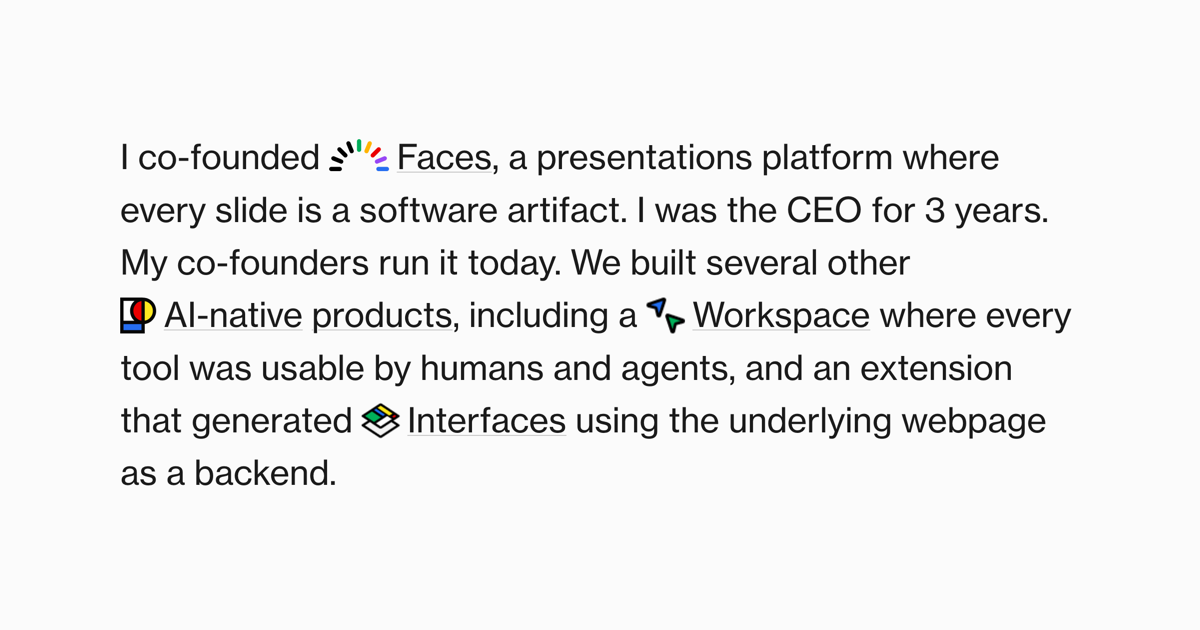
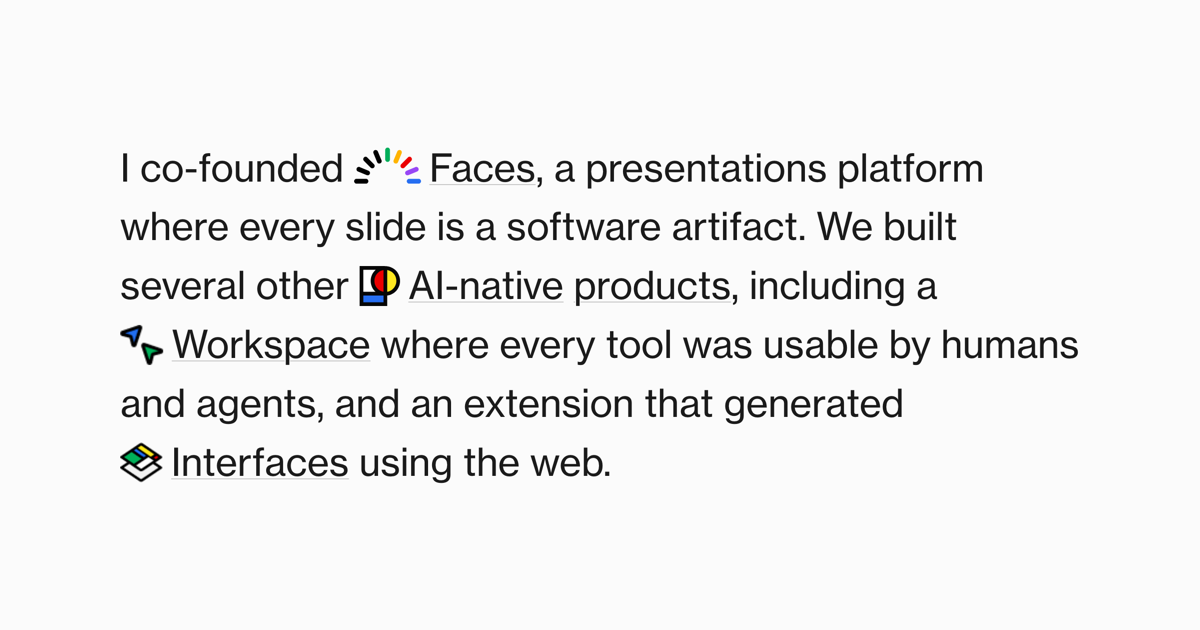
Shorter preview copy, larger type

Changed region(s): [[0.0925, 0.2111, 0.8942, 0.7841]]

diff --git a/og.html b/og.html
@@ -11,7 +11,7 @@
   <style>
     html, body { width: 1200px; height: 630px; overflow: hidden; }
     body {
-      font-size: 34px;
+      font-size: 38px;
       line-height: 1.55;
       display: flex;
       align-items: center;
@@ -27,6 +27,6 @@
   </style>
 </head>
 <body>
-  <p>I co-founded <span class="nb"><img class="logo logo-faces" src="logos/faces.svg" alt="" aria-hidden="true"><a href="https://faces.app">Faces</a></span>, a presentations platform where every slide is a software artifact. I was the CEO for 3 years. My co-founders run it today. We built several other <span class="nb"><img class="logo logo-perhaps" src="logos/perhaps.svg" alt="" aria-hidden="true"><a href="https://perhaps.inc">AI-native</a></span> <a href="https://perhaps.inc">products</a>, including a <span class="nb"><img class="logo logo-workspace" src="logos/workspace.png" alt="" aria-hidden="true"><a href="https://workspace.faces.site/">Workspace</a></span> where every tool was usable by humans and agents, and an extension that generated <span class="nb"><img class="logo logo-interfaces" src="logos/interfaces.png" alt="" aria-hidden="true"><a href="https://x.com/gopalkraman/status/1883248141853696016">Interfaces</a></span> using the underlying webpage as a backend.</p>
+  <p>I co-founded <span class="nb"><img class="logo logo-faces" src="logos/faces.svg" alt="" aria-hidden="true"><a href="https://faces.app">Faces</a></span>, a presentations platform where every slide is a software artifact. We built several other <span class="nb"><img class="logo logo-perhaps" src="logos/perhaps.svg" alt="" aria-hidden="true"><a href="https://perhaps.inc">AI-native</a></span> <a href="https://perhaps.inc">products</a>, including a <span class="nb"><img class="logo logo-workspace" src="logos/workspace.png" alt="" aria-hidden="true"><a href="https://workspace.faces.site/">Workspace</a></span> where every tool was usable by humans and agents, and an extension that generated <span class="nb"><img class="logo logo-interfaces" src="logos/interfaces.png" alt="" aria-hidden="true"><a href="https://x.com/gopalkraman/status/1883248141853696016">Interfaces</a></span> using the web.</p>
 </body>
 </html>
